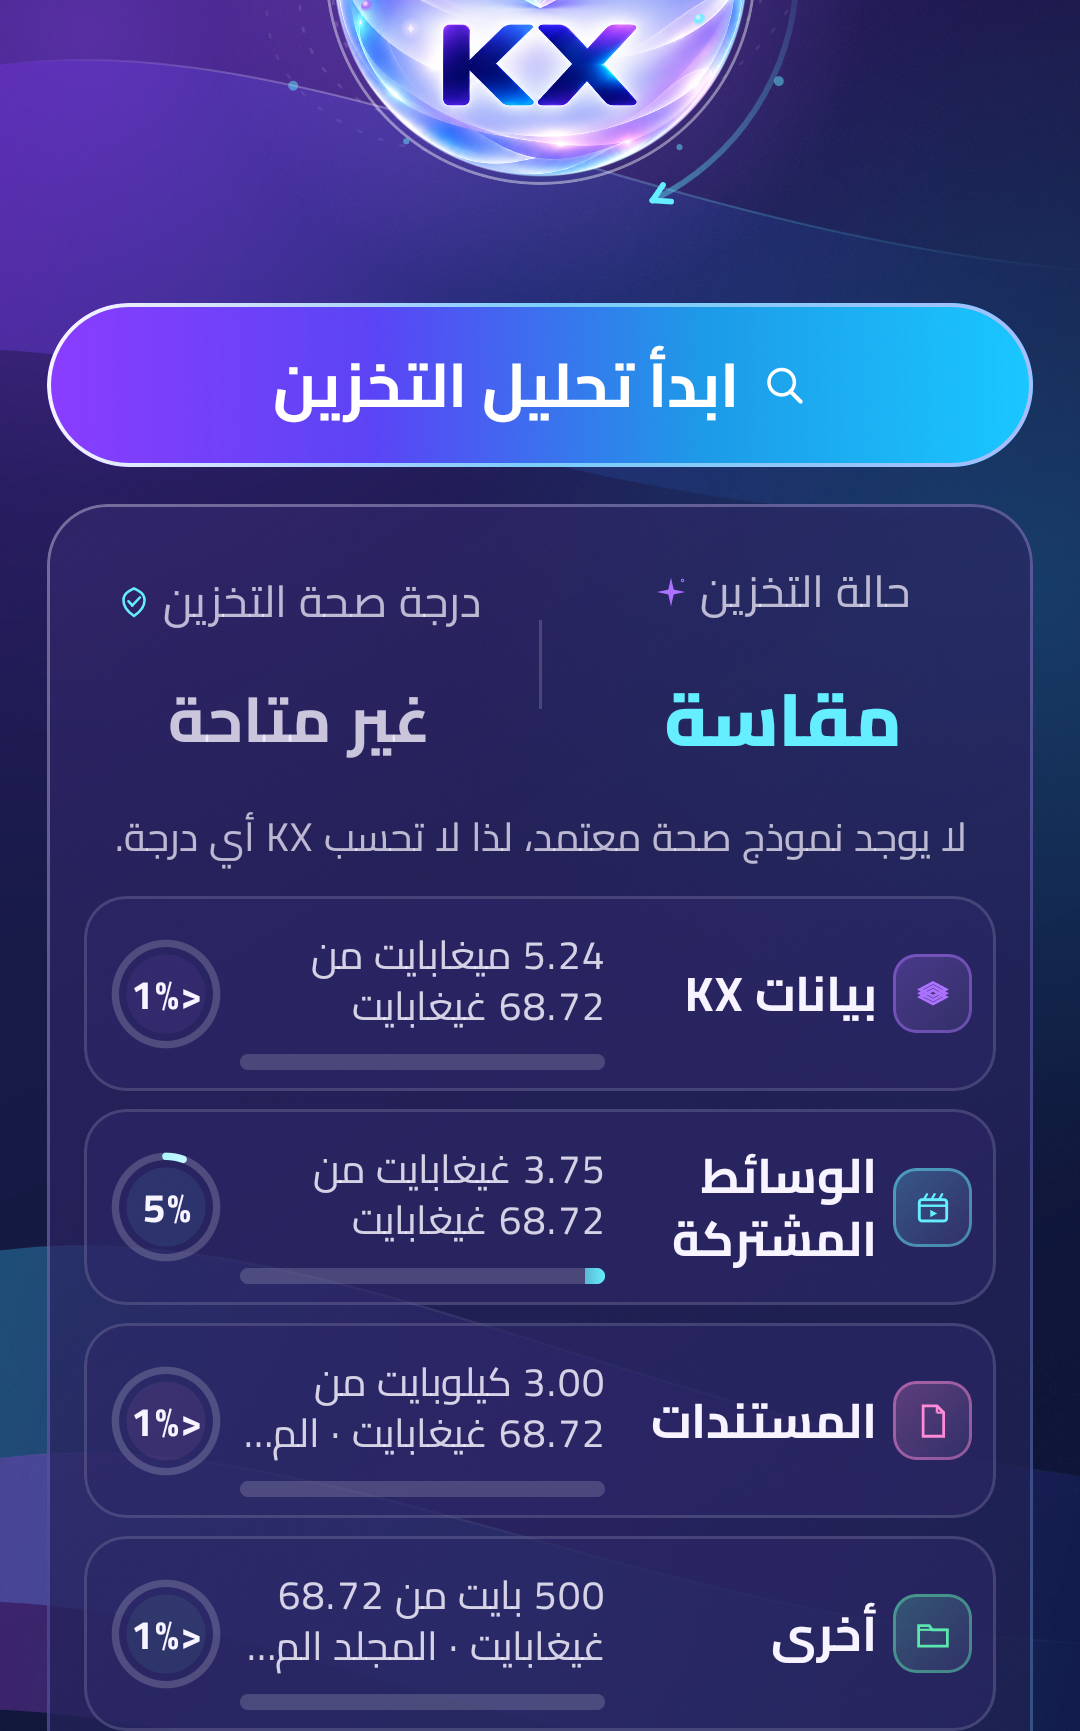
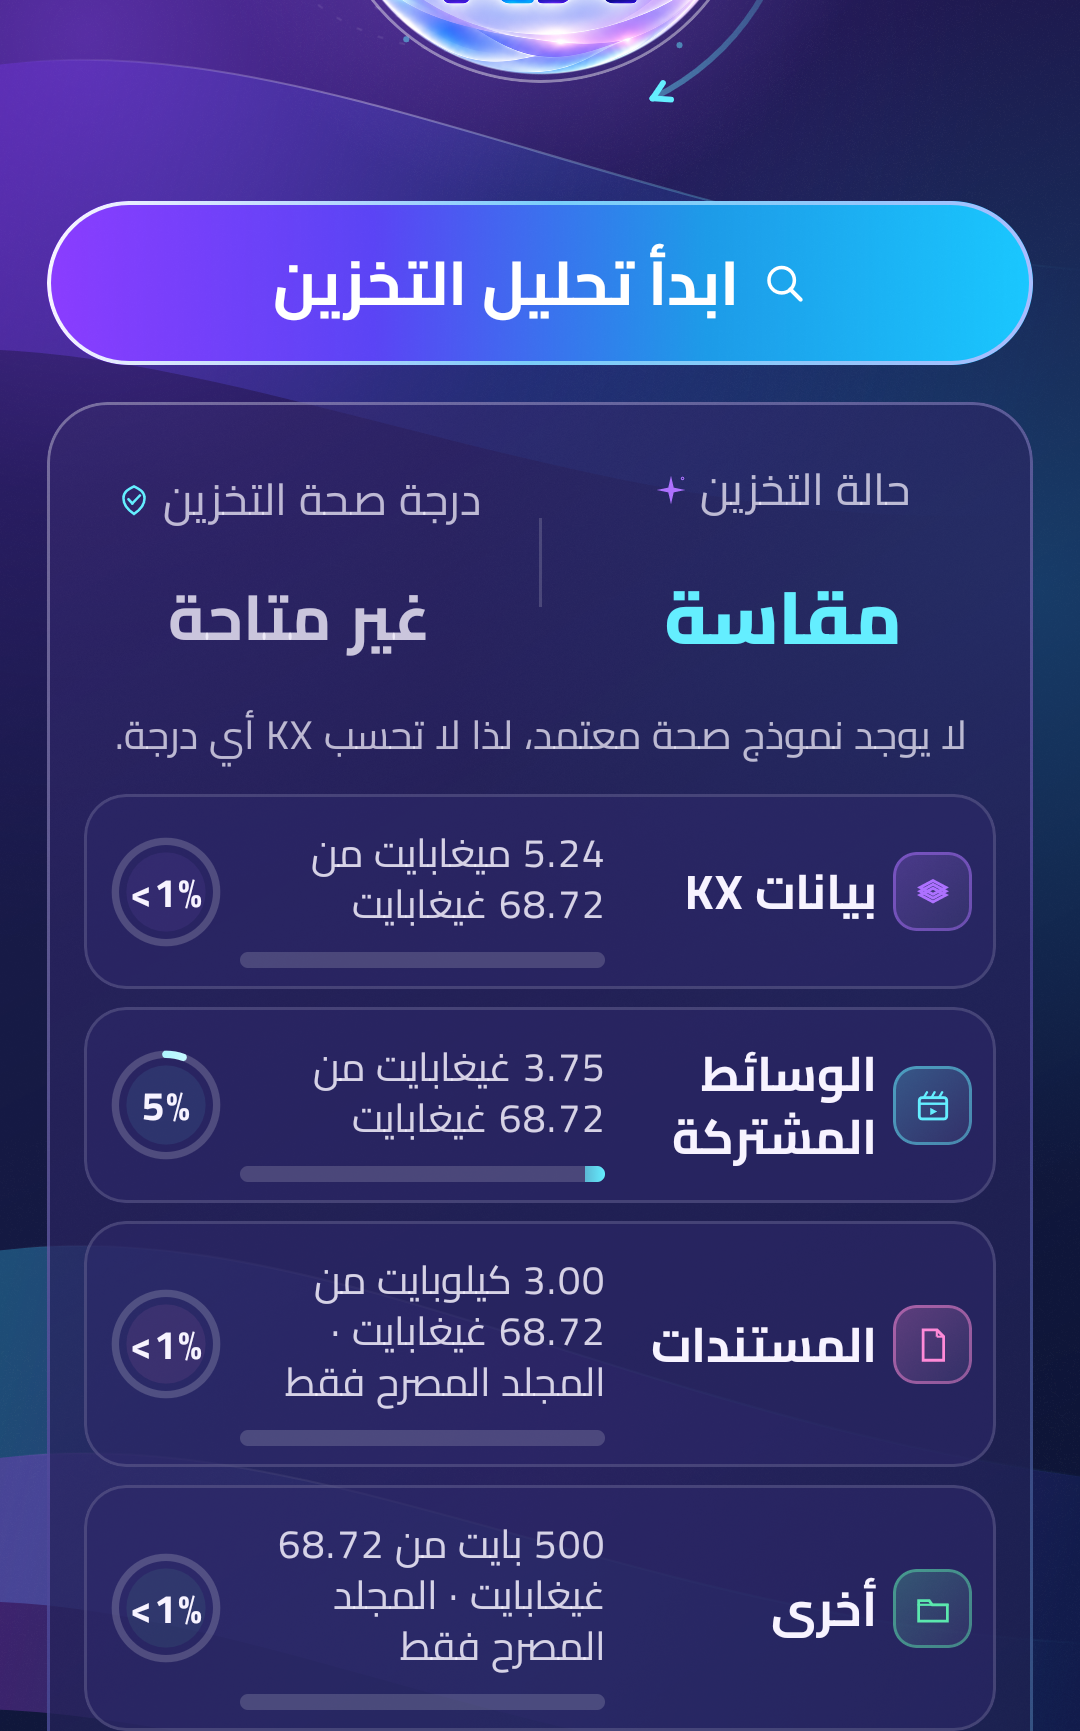
fix(storage): keep Arabic health labels legible at large font
Let measured values wrap to three lines so the authorized-folder-only note stays visible at font scale 1.6, and render numeric percentage rings in LTR so the compact <1% label is not bidi-mirrored. Lock the Arabic <1% label with an assertion and refresh the two affected screenshots and hashes.

diff --git a/android/app/src/main/java/com/knoux/kxprivatevpn/features/StorageXrayScreen.kt b/android/app/src/main/java/com/knoux/kxprivatevpn/features/StorageXrayScreen.kt
@@ -35,12 +35,14 @@ import androidx.compose.ui.graphics.StrokeCap
 import androidx.compose.ui.graphics.drawscope.Stroke
 import androidx.compose.ui.graphics.drawscope.rotate
 import androidx.compose.ui.platform.LocalContext
+import androidx.compose.ui.platform.LocalLayoutDirection
 import androidx.compose.ui.platform.testTag
 import androidx.compose.ui.res.stringResource
 import androidx.compose.ui.semantics.Role
 import androidx.compose.ui.text.font.FontWeight
 import androidx.compose.ui.text.style.TextAlign
 import androidx.compose.ui.text.style.TextOverflow
+import androidx.compose.ui.unit.LayoutDirection
 import androidx.compose.ui.unit.dp
 import androidx.compose.ui.unit.sp
 import androidx.lifecycle.compose.collectAsStateWithLifecycle
@@ -485,7 +487,7 @@ private fun HealthCategoryRow(
                 fontSize = 9.5.sp,
                 lineHeight = 12.sp,
                 color = if (measured) ink.copy(alpha = .84f) else kxMuted(night),
-                maxLines = 2,
+                maxLines = 3,
                 overflow = TextOverflow.Ellipsis,
                 modifier = Modifier.testTag("storage-health-value-${category.kind.name.lowercase()}"),
             )
@@ -561,14 +563,16 @@ private fun HealthPercentRing(
                 )
             }
         }
-        Text(
-            label ?: "—",
-            fontSize = 9.5.sp,
-            fontWeight = FontWeight.Bold,
-            color = if (fraction != null) kxInk(night) else kxMuted(night),
-            maxLines = 1,
-            modifier = Modifier.testTag(tag),
-        )
+        CompositionLocalProvider(LocalLayoutDirection provides LayoutDirection.Ltr) {
+            Text(
+                label ?: "—",
+                fontSize = 9.5.sp,
+                fontWeight = FontWeight.Bold,
+                color = if (fraction != null) kxInk(night) else kxMuted(night),
+                maxLines = 1,
+                modifier = Modifier.testTag(tag),
+            )
+        }
     }
 }
 

diff --git a/android/app/src/androidTest/java/com/knoux/kxprivatevpn/StorageXrayScreenTest.kt b/android/app/src/androidTest/java/com/knoux/kxprivatevpn/StorageXrayScreenTest.kt
@@ -342,6 +342,8 @@ class StorageXrayScreenTest {
         compose.onNodeWithTag("storage-health-panel").assertExists()
         compose.onNodeWithTag("storage-health-score")
             .assertTextEquals(ar.getString(R.string.storage_ref_score_unavailable))
+        compose.onNodeWithTag("storage-health-percent-kx")
+            .assertTextEquals(ar.getString(R.string.storage_ref_less_than_one))
         capture("70-storage-health-night-ar-large")
         compose.onNodeWithTag("storage-health-row-other").performScrollTo().assertIsDisplayed()
         capture("70b-storage-health-night-ar-panel")

diff --git a/docs/evidence/visual-reference-20261109/storage-health/README.md b/docs/evidence/visual-reference-20261109/storage-health/README.md
@@ -15,7 +15,7 @@ authorized through the Storage Access Framework (SAF).
 
 - Emulator: `kx_preview`, Android API 26.
 - Test class: `com.knoux.kxprivatevpn.StorageXrayScreenTest` (13 tests).
-- Final local run: `OK (13 tests)` in 50.9 s.
+- Final local run: `OK (13 tests)`.
 - Pure model: `StorageHealthModelTest` (8 JVM tests) covers unavailable, measuring, partial,
   lower-bound, failed-query and measured-zero rules without an emulator.
 - Fixture volume: 64 GiB total with 20 GiB free (reported by the screen as 68.72 GB / 18.63 GB
@@ -45,8 +45,8 @@ SHA-256 of the committed PNG bytes:
 f416d0182a87fb52356a906754fc4d45c5f804db2d217f510fe387a577c2eb4e  67-storage-health-hero.png
 c2ae21e76de3d37c3dfba4e028ab3f140b90a9417feccd2f5787570623b654b8  68-storage-health-measured.png
 bd70a07f8030c3f8826577f4fa4ebbfaa1cef148c4d5a3f5bdb3a3d031aa06ac  69-storage-health-unavailable.png
-ad59af09e1271fbfa44d2f955df0a49a0fd126585d0d46aa2decf42c9d938cfd  70-storage-health-night-ar-large.png
-a736e00175fafca9fb698fab83751918224323b9b36ddc3bff28518aa08c64c8  70b-storage-health-night-ar-panel.png
+50f4d95055e524f0598d0858810d5ded4bcacee12c287f8f3224c64cb33a73b4  70-storage-health-night-ar-large.png
+3c959964429d236d3b2c07348ff8f294711b8eba0b7425d4078b02c6fc3dd797  70b-storage-health-night-ar-panel.png
 ```
 
 ## Intentional deviations from reference 07
